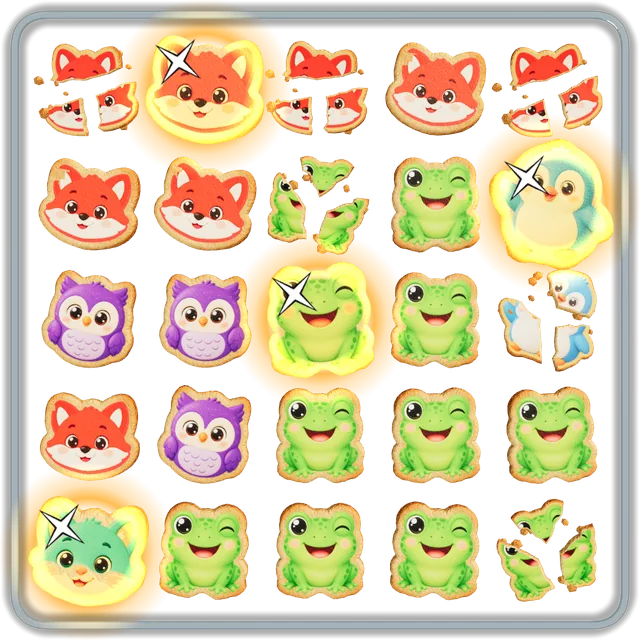
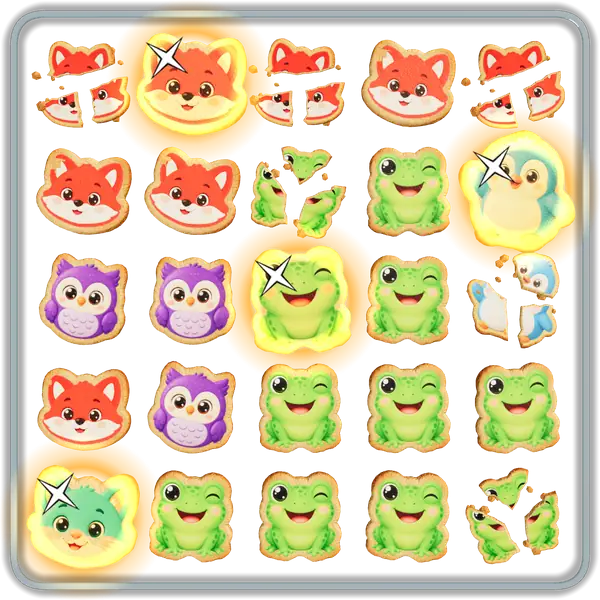
Kekse: Krümel-Teile aller Tiere beim Levelstart vorbereiten; Hero 600px; THROTTLE-Option für e2e/touch-hit

diff --git a/tests/touch-hit.js b/tests/touch-hit.js
@@ -15,7 +15,7 @@ async function session(vp, { standalone = false } = {}) {
   const b = await chromium.launch({ executablePath: '/usr/bin/google-chrome', args: ['--no-sandbox', '--use-angle=swiftshader', '--enable-unsafe-swiftshader', '--ignore-gpu-blocklist'] });
   const ctx = await b.newContext({ viewport: vp, screen: standalone ? { width: vp.width, height: standalone } : vp, deviceScaleFactor: 2, hasTouch: true, isMobile: true, locale: 'de-DE' });
   if (standalone) await ctx.addInitScript(() => Object.defineProperty(navigator, 'standalone', { get: () => true }));
-  const p = await ctx.newPage(); const cdp = await ctx.newCDPSession(p);
+  const p = await ctx.newPage(); const cdp = await ctx.newCDPSession(p); if (+process.env.THROTTLE > 1) await cdp.send('Emulation.setCPUThrottlingRate', { rate: +process.env.THROTTLE }); // THROTTLE=4: CPU x4
   const errors = []; p.on('pageerror', e => errors.push(e.message)); p.on('console', m => { if (m.type() === 'error') errors.push(m.text()); });
   await p.goto(BASE); await p.evaluate(() => localStorage.setItem('squishdoku-v1', JSON.stringify({ v: 2, unlocked: 50, stars: { 1: 3, 2: 3, 3: 3 }, seenRules: true, revealed: {} })));
   await p.reload(); await p.waitForFunction(() => document.documentElement.dataset.ready === '1');

diff --git a/tools/menu-art.js b/tools/menu-art.js
@@ -6,7 +6,7 @@ const B = 'http://localhost:8792/tools/cookie-art.html';
 const OUT = __dirname + '/../src/img', TMP = '/tmp/menu-art'; require('fs').mkdirSync(TMP, { recursive: true });
 const ONLY = process.argv.slice(2);
 let jobs = [
-  { name: 'hero-board', q: 'mode=hero', w: 640 },
+  { name: 'hero-board', q: 'mode=hero', w: 600, q2: 68 },
   { name: 'sq-glow', q: 'mode=single&v=4&lit=1', w: 240 },
   { name: 'sq-pink', q: 'mode=single&v=7', w: 140 },
   { name: 'sq-blue', q: 'mode=single&v=1', w: 180 }, { name: 'sq-red', q: 'mode=single&v=2', w: 180 },
@@ -25,7 +25,7 @@ if (ONLY.length) jobs = jobs.filter(j => ONLY.includes(j.name));
     execFileSync('python3', ['-c', `
 from PIL import Image
 im=Image.open('${png}').convert('RGBA');a=im.split()[3].point(lambda v:255 if v>8 else 0);bb=a.getbbox();im=im.crop(bb)
-w=${j.w};im=im.resize((w,round(im.height*w/im.width)),Image.LANCZOS);im.save('${OUT}/${j.name}.webp',quality=82,method=6);print('${j.name}',im.size)`], { stdio: 'inherit' });
+w=${j.w};im=im.resize((w,round(im.height*w/im.width)),Image.LANCZOS);im.save('${OUT}/${j.name}.webp',quality=${j.q2 || 82},method=6);print('${j.name}',im.size)`], { stdio: 'inherit' });
     await p.close();
   }
   await b.close();

diff --git a/tests/e2e.js b/tests/e2e.js
@@ -17,7 +17,7 @@ async function run(vp, dpr) {
   const errors = [], warnings = [];
   p.on('pageerror', e => errors.push('pageerror: ' + e.message));
   p.on('console', m => { if (m.type() === 'error') errors.push(m.text()); if (m.type() === 'warning') warnings.push(m.text()); });
-  const cdp = await ctx.newCDPSession(p);
+  const cdp = await ctx.newCDPSession(p); if (+process.env.THROTTLE > 1) await cdp.send('Emulation.setCPUThrottlingRate', { rate: +process.env.THROTTLE }); // THROTTLE=4: CPU x4
   const touch = (type, x, y, timestamp) => cdp.send('Input.dispatchTouchEvent', { type, ...(timestamp ? { timestamp } : {}), touchPoints: type === 'touchEnd' ? [] : [{ x, y, id: 1, radiusX: 4, radiusY: 4, force: 1 }] });
   const pos = (r, c) => p.evaluate(([r, c]) => { const s = SquishDoku.board.screenOf(r, c); return { x: s.x, y: s.y + s.size * .1 }; }, [r, c]);
   async function hold(r, c, ms = 650) { const q = await pos(r, c); await touch('touchStart', q.x, q.y); await sleep(ms); await touch('touchEnd'); await sleep(120); }
